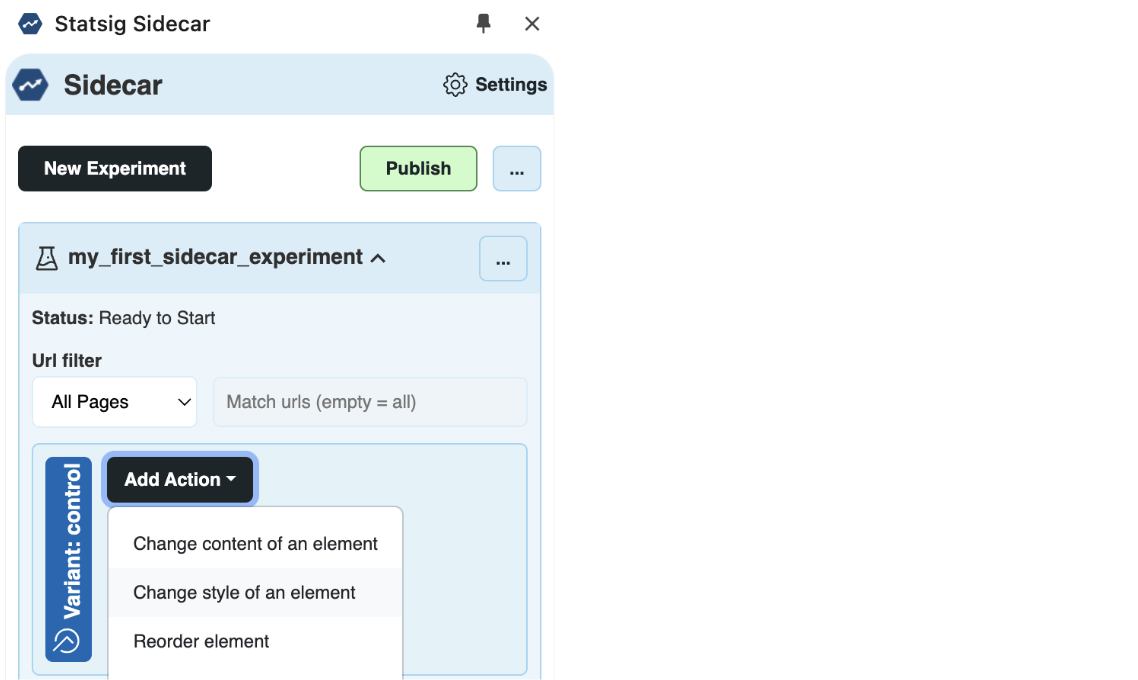
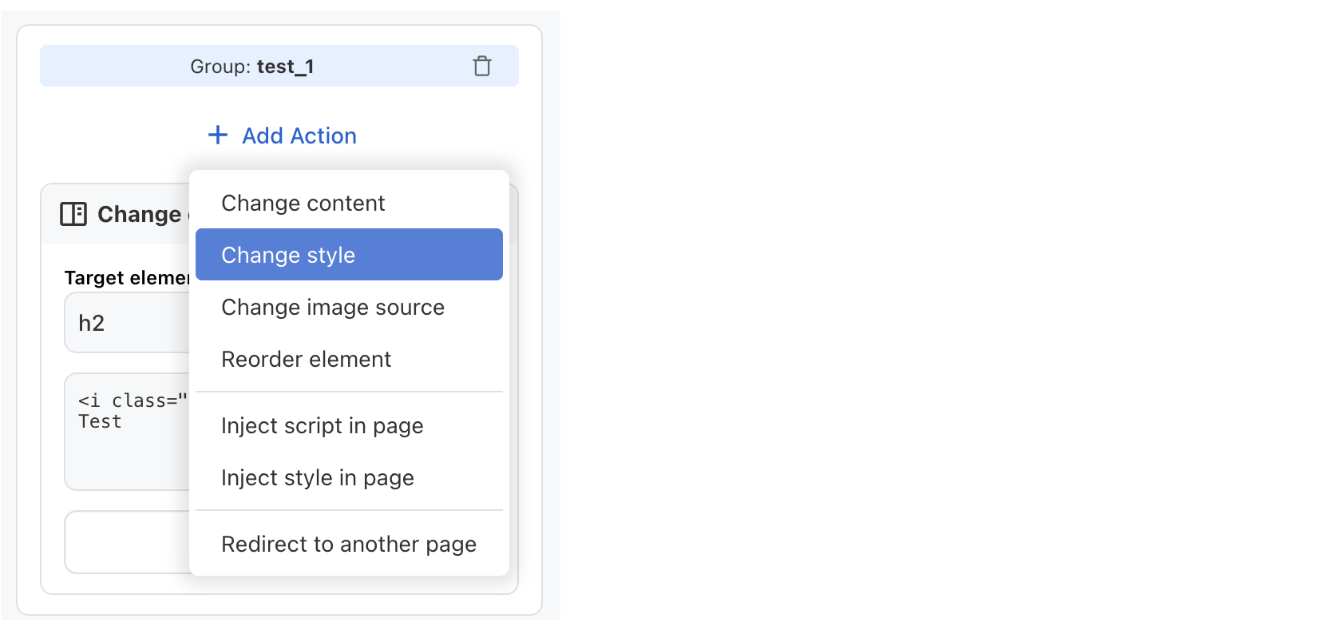
Cooper/sidecarv2docs (#2424)
* publishing --> launching

* preserve original URL to keep seo and not loose backlinks

* replaced nearly every sidecar img

---------

Changed region(s): [[0.0, 0.0, 0.4921, 1.0], [0.4613, 0.5516, 0.4921, 0.6129]]

diff --git a/docusaurus.config.ts b/docusaurus.config.ts
@@ -319,7 +319,7 @@ const config: Config = {
           {
             to: "/experiments-plus/stop-assignments",
             from: "/experiments-plus/pause-assignment",
-          },
+          }
         ],
       },
     ],
